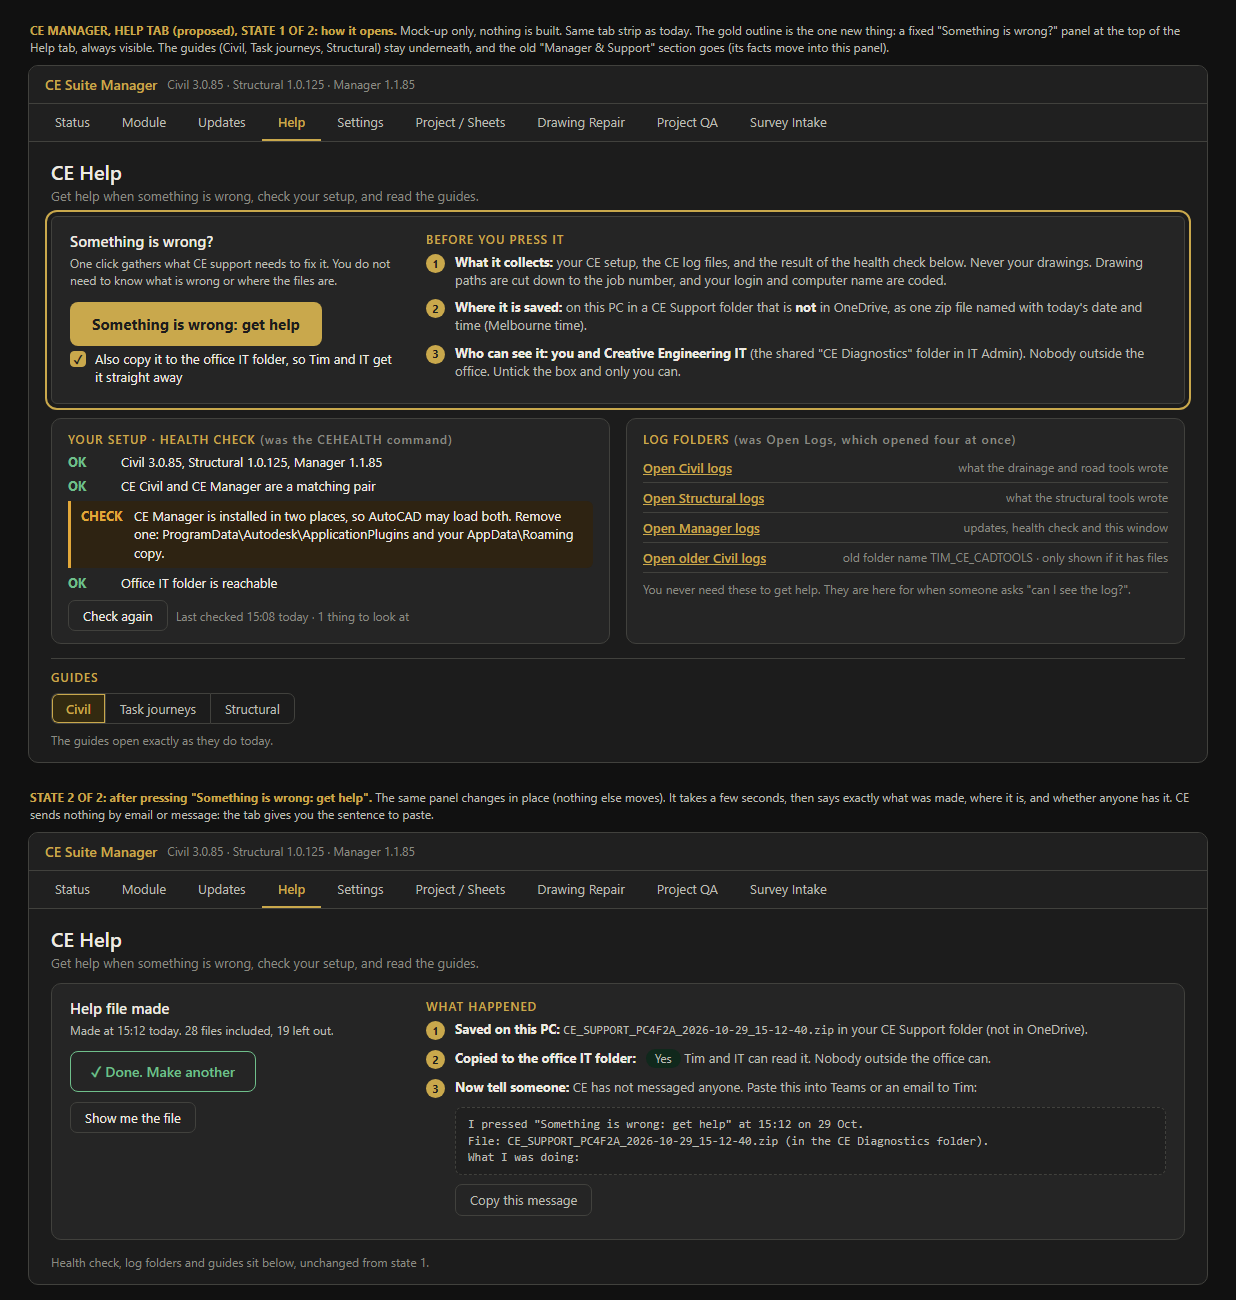
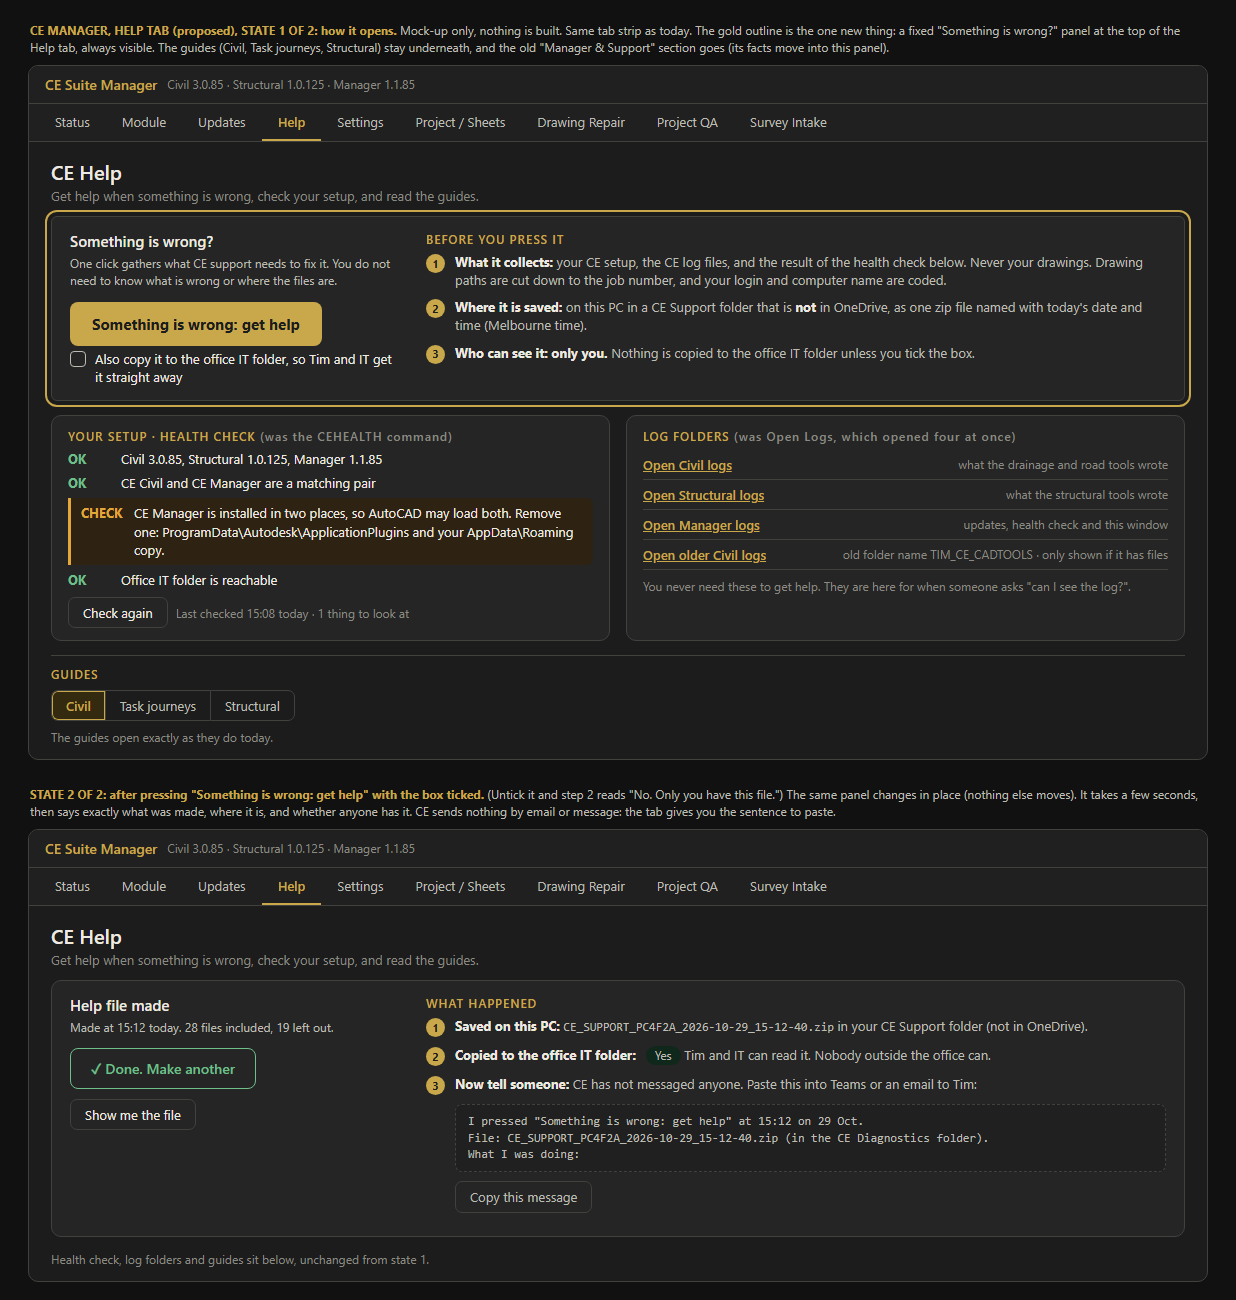
Help tab: IT-folder tick box unticked by default (decision 90), brief and mock-ups updated

diff --git a/areas/UX_HELP_TAB_MOCKUP_2026-10-29.html b/areas/UX_HELP_TAB_MOCKUP_2026-10-29.html
@@ -66,13 +66,13 @@ h3{margin:0 0 6px;font-size:12px;letter-spacing:.08em;color:var(--gold);font-wei
         <div class="q">Something is wrong?</div>
         <div class="small">One click gathers what CE support needs to fix it. You do not need to know what is wrong or where the files are.</div>
         <span class="go">Something is wrong: get help</span>
-        <div class="tick"><span class="box on">✓</span><span>Also copy it to the office IT folder, so Tim and IT get it straight away</span></div>
+        <div class="tick"><span class="box"></span><span>Also copy it to the office IT folder, so Tim and IT get it straight away</span></div>
       </div>
       <div class="three">
         <h3>BEFORE YOU PRESS IT</h3>
         <div><span class="n">1</span><span><b>What it collects:</b> your CE setup, the CE log files, and the result of the health check below. Never your drawings. Drawing paths are cut down to the job number, and your login and computer name are coded.</span></div>
         <div><span class="n">2</span><span><b>Where it is saved:</b> on this PC in a CE Support folder that is <b>not</b> in OneDrive, as one zip file named with today's date and time (Melbourne time).</span></div>
-        <div><span class="n">3</span><span><b>Who can see it:</b> <b>you and Creative Engineering IT</b> (the shared "CE Diagnostics" folder in IT Admin). Nobody outside the office. Untick the box and only you can.</span></div>
+        <div><span class="n">3</span><span><b>Who can see it:</b> <b>only you.</b> Nothing is copied to the office IT folder unless you tick the box.</span></div>
       </div>
     </div>
 
@@ -103,7 +103,7 @@ h3{margin:0 0 6px;font-size:12px;letter-spacing:.08em;color:var(--gold);font-wei
   </div>
 </div>
 
-<p class="cap"><b>STATE 2 OF 2: after pressing "Something is wrong: get help".</b> The same panel changes in place (nothing else moves). It takes a few seconds, then says exactly what was made, where it is, and whether anyone has it. CE sends nothing by email or message: the tab gives you the sentence to paste.</p>
+<p class="cap"><b>STATE 2 OF 2: after pressing "Something is wrong: get help" with the box ticked.</b> (Untick it and step 2 reads "No. Only you have this file.") The same panel changes in place (nothing else moves). It takes a few seconds, then says exactly what was made, where it is, and whether anyone has it. CE sends nothing by email or message: the tab gives you the sentence to paste.</p>
 <div class="win">
   <div class="title"><b>CE Suite Manager</b><span>Civil 3.0.85 · Structural 1.0.125 · Manager 1.1.85</span></div>
   <div class="tabs"><div>Status</div><div>Module</div><div>Updates</div><div class="on">Help</div><div>Settings</div><div>Project / Sheets</div><div>Drawing Repair</div><div>Project QA</div><div>Survey Intake</div></div>

diff --git a/areas/UX_HELP_TAB_MOCKUP_2026-10-29_clickable.html b/areas/UX_HELP_TAB_MOCKUP_2026-10-29_clickable.html
@@ -68,13 +68,13 @@ h3{margin:0 0 6px;font-size:12px;letter-spacing:.08em;color:var(--gold);font-wei
         <div class="q">Something is wrong?</div>
         <div class="small">One click gathers what CE support needs to fix it. You do not need to know what is wrong or where the files are.</div>
         <span class="go" id="go">Something is wrong: get help</span>
-        <div class="tick" id="tick"><span class="box on" id="box">✓</span><span>Also copy it to the office IT folder, so Tim and IT get it straight away</span></div>
+        <div class="tick" id="tick"><span class="box" id="box"></span><span>Also copy it to the office IT folder, so Tim and IT get it straight away</span></div>
       </div>
       <div class="three">
         <h3>BEFORE YOU PRESS IT</h3>
         <div><span class="n">1</span><span><b>What it collects:</b> your CE setup, the CE log files, and the result of the health check below. Never your drawings. Drawing paths are cut down to the job number, and your login and computer name are coded.</span></div>
         <div><span class="n">2</span><span><b>Where it is saved:</b> on this PC in a CE Support folder that is <b>not</b> in OneDrive, as one zip file named with the date and time (Melbourne time).</span></div>
-        <div><span class="n">3</span><span id="who"><b>Who can see it:</b> <b>you and Creative Engineering IT</b> (the shared "CE Diagnostics" folder in IT Admin). Nobody outside the office. Untick the box and only you can.</span></div>
+        <div><span class="n">3</span><span id="who"><b>Who can see it:</b> <b>only you.</b> Nothing is copied to the office IT folder unless you tick the box.</span></div>
       </div>
     </div>
 
@@ -123,7 +123,7 @@ h3{margin:0 0 6px;font-size:12px;letter-spacing:.08em;color:var(--gold);font-wei
   </div>
 </div>
 <script>
-var on = true;
+var on = false;
 function $(i){ return document.getElementById(i); }
 function now(){
   var d = new Date();

diff --git a/areas/UX_HELP_TAB_BRIEF_2026-10-29.md b/areas/UX_HELP_TAB_BRIEF_2026-10-29.md
@@ -15,7 +15,7 @@
 1. **One button, "Something is wrong: get help", at the top of the existing Help tab.** The Manager already has a Help tab (section 2), so no new tab is added. The button sits in a fixed panel above the guides, visible the moment the tab opens.
 2. **One press makes ONE zip** holding the diagnostics report, the CE logs and the health-check result. Three plain lines beside the button say what it collects, where it is saved and who can see it, before anyone presses.
 3. **The three old commands stay, but only as shortcuts that open this tab.** CEHEALTH also shows here as a short list with "Check again".
-4. **Recommended answers to Tim's questions are in section 8.** The two that matter: the zip is saved on the PC outside OneDrive, and a ticked box (with the audience named beside it) copies it to the shared IT folder.
+4. **Recommended answers to Tim's questions are in section 8.** The two that matter: the zip is saved on the PC outside OneDrive, and an UNTICKED box (with the audience named beside it) that the user ticks to copy it to the shared IT folder (Tim, decision 90, replaced the ticked default).
 
 ---
 
@@ -35,7 +35,7 @@
 
 1. **Title "CE Help"** and one line: "Get help when something is wrong, check your setup, and read the guides."
 2. **Panel "Something is wrong?"** (gold outline in the picture):
-   1. Left: one sentence ("One click gathers what CE support needs to fix it. You do not need to know what is wrong or where the files are"), the **one gold primary button**, and one tick box: "Also copy it to the office IT folder, so Tim and IT get it straight away".
+   1. Left: one sentence ("One click gathers what CE support needs to fix it. You do not need to know what is wrong or where the files are"), the **one gold primary button**, and one tick box, unticked when the tab opens: "Also copy it to the office IT folder, so Tim and IT get it straight away".
    2. Right, headed "Before you press it": the **three plain lines**, numbered 1 to 3 (section 4).
 3. **Two cards side by side:**
    1. **Your setup · health check** (the CEHEALTH result as a list, OK in green, anything wrong in amber with the plain fix, a "Check again" button and "last checked" time).
@@ -54,11 +54,11 @@ The three lines, as they should read on screen:
 
 1. **What it collects:** your CE setup, the CE log files, and the result of the health check below. Never your drawings. Drawing paths are cut down to the job number, and your login and computer name are coded.
 2. **Where it is saved:** on this PC in a CE Support folder that is not in OneDrive, as one zip file named with today's date and time (Melbourne time).
-3. **Who can see it:** you and Creative Engineering IT (the shared "CE Diagnostics" folder in IT Admin). Nobody outside the office. Untick the box and only you can.
+3. **Who can see it:** only you, unless you tick the box. Ticked: you and Creative Engineering IT (the shared "CE Diagnostics" folder in IT Admin). Nobody outside the office.
 
 Rules for these lines:
 
-1. **Line 3 changes with the tick box.** Ticked: "you and Creative Engineering IT". Unticked: "only you". It can never say one thing while the code does another.
+1. **Line 3 changes with the tick box.** Unticked is the default and reads "only you". Ticked: "you and Creative Engineering IT". Unticked: "only you". It can never say one thing while the code does another.
 2. **If the IT folder is not reachable** (OneDrive not synced), the tab says so in line 3 and the zip stays on the PC only. It must not silently fall back to a Desktop folder, which is what the diagnostics code does today.
 3. **"Never your drawings" is a requirement, not a checked fact.** I have not looked inside a real zip. The builder must prove it (a test that opens the zip and finds no .dwg), or the sentence is reworded to what is true.
 
@@ -106,7 +106,7 @@ One zip, nothing else produced:
    2. Alternative: keep Desktop\CE Support (easy to find, but it syncs to OneDrive).
    3. I have not checked whether other users' Documents or Desktop are redirected into OneDrive. Tim's PC is, per the 29 Oct message.
 2. **Who gets it, and who is told?**
-   1. **Recommend: a tick box, ticked by default, "Also copy it to the office IT folder, so Tim and IT get it straight away", with line 3 saying exactly who can read it.** The user can untick. The IT folder is shared, so the warning today's diagnostics skip is the point of line 3.
+   1. **Recommend: a tick box, "Also copy it to the office IT folder, so Tim and IT get it straight away", with line 3 saying exactly who can read it.** **SUPERSEDED 29 Oct (decision 90): Tim chose UNTICKED by default, "The user ticks it when they want you and IT to get the file straight away". My first recommendation (ticked) is kept here as written.** The user can tick or untick. The IT folder is shared, so the warning today's diagnostics skip is the point of line 3.
    2. **Recommend: CE sends no message itself** (no email or Teams code exists for this that I know of). The tab shows a ready-to-paste sentence with the file name and a "Copy this message" button.
    3. Alternative: never copy automatically; the user sends the file themselves. Safer, but the colleague has to know whom to send it to, which is the problem Tim raised.
 3. **Does the button do everything in one go, with no "are you sure"?**

diff --git a/QUESTIONS_FOR_MONDAY.md b/QUESTIONS_FOR_MONDAY.md
@@ -238,7 +238,7 @@ GB-D. **CLAUDE ASSISTANT (GB-05): PROVIDER AND MODEL, MONTHLY COST CEILING, WHO 
 47. **Copied downpipe (BUG-1246).** CR leaves a plain copy with no new tag. Recommended: a copied downpipe becomes a real downpipe with the next tag, as a copied pit does.
 48. **StrucPlus in Manager (IDEAS UX-MANAGER-TABS).** Tim: "lets remove strucplus". Recommended scope: take CE StrucPlus out of CE Manager only, no StrucPlus code or product deleted.
 49. **CE Blocks (BUG-1243).** Tim: "ceblock still doesnt work how i wanted it to"; what he wanted is not recorded. Ask what he typed or clicked, what he wanted, what it did.
-50. **Help tab (UX-HELP-IN-MANAGER).** Five questions in areas\UX_HELP_TAB_BRIEF_2026-10-29.md section 8, picture areas\UX_HELP_TAB_MOCKUP_2026-10-29.png, clickable mock-up areas\UX_HELP_TAB_MOCKUP_2026-10-29_clickable.html. Recommended answers: (1) zip saved on the PC outside OneDrive, not Desktop\CE Support; (2) a tick box, ticked by default, copies it to the shared IT folder and line 3 names who can read it, CE sends no message itself (the tab gives a paste-ready sentence); (3) no "are you sure" pop-up; (4) typed CESUPPORT and CEMANAGERDIAG only open the tab; (5) button wording is his own phrase, "Open older Civil logs" is mine. Design owner: CE 11. **ANSWERED 29 Oct: Tim "Accept all five" (decision 84).**
+50. **Help tab (UX-HELP-IN-MANAGER).** Five questions in areas\UX_HELP_TAB_BRIEF_2026-10-29.md section 8, picture areas\UX_HELP_TAB_MOCKUP_2026-10-29.png, clickable mock-up areas\UX_HELP_TAB_MOCKUP_2026-10-29_clickable.html. Recommended answers: (1) zip saved on the PC outside OneDrive, not Desktop\CE Support; (2) a tick box (SUPERSEDED: Tim chose UNTICKED by default, decision 90) copies it to the shared IT folder and line 3 names who can read it, CE sends no message itself (the tab gives a paste-ready sentence); (3) no "are you sure" pop-up; (4) typed CESUPPORT and CEMANAGERDIAG only open the tab; (5) button wording is his own phrase, "Open older Civil logs" is mine. Design owner: CE 11. **ANSWERED 29 Oct: Tim "Accept all five" (decision 84).**
 51. **Two CE_SUITE_MANAGER installs on his PC (CEHEALTH warning, ledger H31).** Which to keep, ProgramData or his AppData? Nothing removed.
 52. **Garages for GB-01 slice 4.** Recommended in the build list: a closed outline on a named layer set once in Settings; Tim's splay ruling (decision 72, "selected by end user") suggests the same here: the user picks the garage outline.
 
